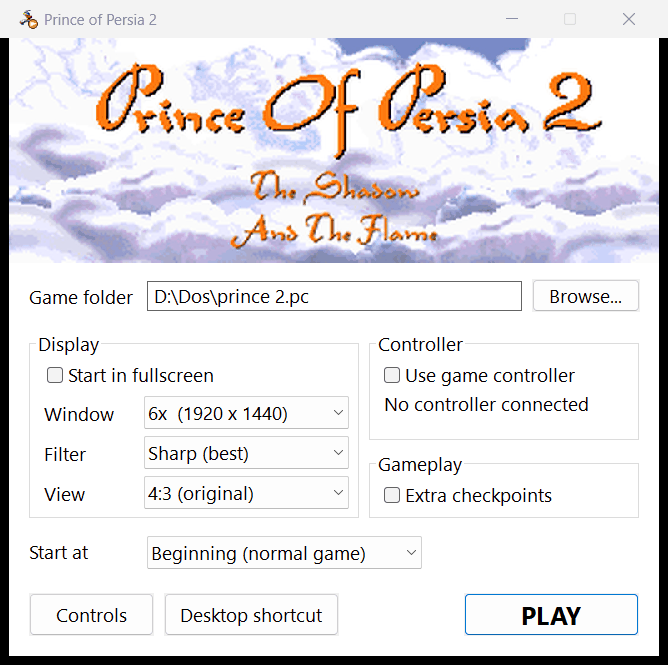
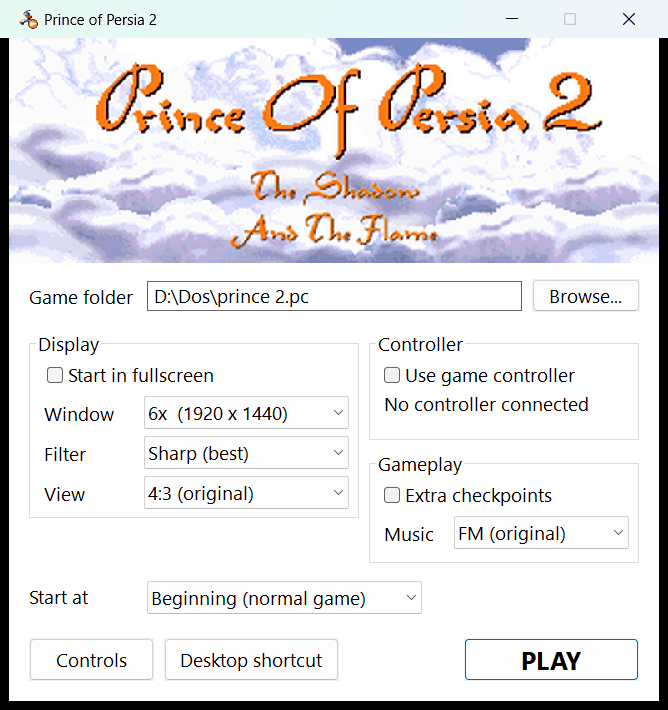
Always use the game's FM music driver, and calm the antivirus heuristics
The music path only ran the recompiled Sound Blaster Pro driver when MIDI.DRV
was byte-identical to msb_pro.drv, so a copy of the game set up for General
MIDI, Roland or the PC speaker fell back to the Windows synth and sounded
nothing like the original.  msb_pro.drv ships with the game and the game only
calls the driver through its fixed entry points, so run that image whatever
SETUP chose, and add a Music setting (launcher, or Music=gm in pop2.ini) for
people who do want General MIDI.  The FM mixer also queues ~120 ms now and
runs above normal priority, so a busy machine cannot break the music up.

Defender's machine learning flags the executable on some machines.  Nothing is
wrong with it, but drop GetAsyncKeyState for the Alt state carried by the key
message itself, write a PE checksum, and fill in the version resource, since
those are the parts that make a large unsigned binary look suspicious.

diff --git a/src/runtime.c b/src/runtime.c
@@ -102,6 +102,8 @@ enum { DRV_NONE, DRV_DIGI, DRV_MIDI };
 static uint32_t drv_base[3], drv_size[3];   /* linear address of the driver file's byte 0, file size */
 static int cur_drv_kind;                     /* kind of the most recently opened .DRV */
 static void fm_driver_check(const char *name);
+static int cfg_music_gm;   /* pop2.ini Music=gm: Windows General MIDI instead of FM */
+
 static void note_driver_read(const char *name, uint32_t dst, uint32_t fpos) {
     size_t l = strlen(name);
     if (l < 4 || _stricmp(name + l - 4, ".DRV") != 0) return;
@@ -118,7 +120,7 @@ static void note_driver_read(const char *name, uint32_t dst, uint32_t fpos) {
 static int fm_mode;
 void fm_start(void); void fm_port_write(uint16_t port, uint8_t v); uint8_t fm_port_read(void);   /* sound.c */
 static void fm_driver_check(const char *name) {
-    if (getenv("POP2_NOFM")) return;          /* debug: run the MIDI driver natively instead */
+    if (getenv("POP2_NOFM") || cfg_music_gm) return;   /* General MIDI instead (pop2.ini Music=gm) */
     const SpaceTab *t = NULL;
     for (int i = 0; i < nspaces; i++) if (spaces[i].t->ovl_id == 100) { t = spaces[i].t; break; }
     if (!t || fm_mode) return;
@@ -129,12 +131,21 @@ static void fm_driver_check(const char *name) {
     size_t na = f ? fread(a, 1, sizeof a, f) : 0, nr = g ? fread(r, 1, sizeof r, g) : 0;
     if (f) fclose(f);
     if (g) fclose(g);
-    /* same code as the recompiled driver? (bytes 0..63 are just the card name) */
-    if (na != (size_t)t->size || nr != na || memcmp(a + 64, r + 64, na - 64) != 0) { logmsg("MIDI driver is not the FM driver: General MIDI output\n"); return; }
-    memcpy(MEM + FM_SEG * 16, a, na);
+    /* The recompiled driver IS the game's msb_pro.drv, so that file is the only image allowed to
+     * run here - never whatever MIDI.DRV happens to be.  If the player set the game up for some
+     * other music device, run the FM driver anyway: it ships with the game, the game only calls
+     * it through its fixed entry points, and FM is how this soundtrack is meant to sound. */
+    if (nr != (size_t)t->size) {
+        logmsg("msb_pro.drv missing or not the recompiled version: General MIDI output\n");
+        return;
+    }
+    /* bytes 0..63 are just the card name */
+    if (na != nr || memcmp(a + 64, r + 64, nr - 64) != 0)
+        logmsg("MIDI.DRV is not the FM driver - using the game's own msb_pro.drv (pop2.ini Music=gm for General MIDI)\n");
+    memcpy(MEM + FM_SEG * 16, r, nr);
     int si = 0;
     for (int i = 0; i < nspaces; i++) if (spaces[i].t == t) si = i;
-    for (uint32_t p = 0; p < na; p += 16) para_ovl[FM_SEG + p / 16] = (uint8_t)(si + 1);
+    for (uint32_t p = 0; p < nr; p += 16) para_ovl[FM_SEG + p / 16] = (uint8_t)(si + 1);
     fm_mode = 1;
     fm_start();
     logmsg("FM driver: running recompiled driver code with OPL2 emulation\n");
@@ -359,9 +370,9 @@ static LRESULT CALLBACK wndproc(HWND h, UINT m, WPARAM w, LPARAM l) {
         BYTE ks[256]; WORD ch = 0; GetKeyboardState(ks);
         ks[VK_MENU] = ks[VK_LMENU] = ks[VK_RMENU] = 0;        /* Alt never changes the character */
         int asc = key_ascii((UINT)w, (l >> 16) & 0xFF, ks);
-        /* Alt+key has no ASCII code, as from a PC BIOS.  Ask the keyboard itself: the per-window
-         * key state can still say "Alt down" when Alt was released over another window (Alt+Tab). */
-        if ((GetAsyncKeyState(VK_MENU) & 0x8000) && (m == WM_SYSKEYDOWN)) asc = 0;
+        /* Alt+key has no ASCII code, as from a PC BIOS.  The message itself carries the Alt state
+         * (lParam bit 29), which stays right even when Alt was released over another window. */
+        if (m == WM_SYSKEYDOWN && ((l >> 29) & 1)) asc = 0;
         key_event(vk_to_scan(w, l), 0, asc); return 0; }
     case WM_KEYUP: case WM_SYSKEYUP: key_event(vk_to_scan(w, l), 1, 0); return 0;
     case WM_PAINT: { PAINTSTRUCT ps; BeginPaint(h, &ps); EndPaint(h, &ps); present(); return 0; }
@@ -381,6 +392,8 @@ static void load_settings(void) {
     if (cfg_scale > 8) cfg_scale = 8;
     cfg_controller = GetPrivateProfileIntA("pop2", "Controller", 1, ini);
     cfg_checkpoints = GetPrivateProfileIntA("pop2", "Checkpoints", 0, ini);
+    { char m[16]; GetPrivateProfileStringA("pop2", "Music", "fm", m, sizeof m, ini);
+      cfg_music_gm = _stricmp(m, "gm") == 0 || _stricmp(m, "midi") == 0; }
     cfg_filter = GetPrivateProfileIntA("pop2", "Filter", 0, ini) & 3;
     cfg_aspect = GetPrivateProfileIntA("pop2", "Aspect", 0, ini);
     if (cfg_aspect < 0 || cfg_aspect > 2) cfg_aspect = 0;

diff --git a/src/launcher.c b/src/launcher.c
@@ -10,9 +10,9 @@
 #include <stdio.h>
 #include <string.h>
 
-enum { ID_DIR = 101, ID_BROWSE, ID_FULL, ID_SCALE, ID_PAD, ID_PADSTAT, ID_LEVEL, ID_PLAY, ID_CONTROLS, ID_SHORTCUT, ID_TIMER, ID_FILTER, ID_ASPECT, ID_CP };
+enum { ID_DIR = 101, ID_BROWSE, ID_FULL, ID_SCALE, ID_PAD, ID_PADSTAT, ID_LEVEL, ID_PLAY, ID_CONTROLS, ID_SHORTCUT, ID_TIMER, ID_FILTER, ID_ASPECT, ID_CP, ID_MUSIC };
 
-static HWND hwnd, h_dir, h_full, h_scale, h_pad, h_padstat, h_level, h_play, h_filter, h_aspect, h_cp;
+static HWND hwnd, h_dir, h_full, h_scale, h_pad, h_padstat, h_level, h_play, h_filter, h_aspect, h_cp, h_music;
 static HFONT font, font_big;
 static HBITMAP banner;
 static char ini[MAX_PATH], exe_dir[MAX_PATH];
@@ -80,6 +80,7 @@ static void save_settings(void) {
     snprintf(v, sizeof v, "%d", (int)SendMessageA(h_aspect, CB_GETCURSEL, 0, 0));
     WritePrivateProfileStringA("pop2", "Aspect", v, ini);
     WritePrivateProfileStringA("pop2", "Checkpoints", SendMessageA(h_cp, BM_GETCHECK, 0, 0) == BST_CHECKED ? "1" : "0", ini);
+    WritePrivateProfileStringA("pop2", "Music", SendMessageA(h_music, CB_GETCURSEL, 0, 0) == 1 ? "gm" : "fm", ini);
 }
 
 static void play(void) {
@@ -176,9 +177,11 @@ static void build(void) {
     ctl("BUTTON", "Controller", BS_GROUPBOX, 288, y, 216, 88, 0);
     h_pad = ctl("BUTTON", "Use game controller", BS_AUTOCHECKBOX | WS_TABSTOP, 300, y + 24, 196, 22, ID_PAD);
     h_padstat = ctl("STATIC", "", 0, 300, y + 48, 200, 36, ID_PADSTAT);
-    ctl("BUTTON", "Gameplay", BS_GROUPBOX, 288, y + 96, 216, 54, 0);
+    ctl("BUTTON", "Gameplay", BS_GROUPBOX, 288, y + 96, 216, 90, 0);
     h_cp = ctl("BUTTON", "Extra checkpoints", BS_AUTOCHECKBOX | WS_TABSTOP, 300, y + 120, 196, 22, ID_CP);
-    y += 164;
+    ctl("STATIC", "Music", 0, 300, y + 152, 56, 20, 0);
+    h_music = ctl("COMBOBOX", "", CBS_DROPDOWNLIST | WS_VSCROLL | WS_TABSTOP, 356, y + 148, 140, 200, ID_MUSIC);
+    y += 200;
     ctl("STATIC", "Start at", 0, 16, y + 3, 90, 20, 0);
     h_level = ctl("COMBOBOX", "", CBS_DROPDOWNLIST | WS_VSCROLL | WS_TABSTOP, 110, y, 220, 300, ID_LEVEL);
     y += 46;
@@ -188,6 +191,8 @@ static void build(void) {
     SendMessageA(h_play, WM_SETFONT, (WPARAM)font_big, TRUE);
 
     for (int s = 1; s <= 6; s++) { char t[32]; snprintf(t, sizeof t, "%dx  (%d x %d)", s, 320 * s, 240 * s); SendMessageA(h_scale, CB_ADDSTRING, 0, (LPARAM)t); }
+    SendMessageA(h_music, CB_ADDSTRING, 0, (LPARAM)"FM (original)");
+    SendMessageA(h_music, CB_ADDSTRING, 0, (LPARAM)"General MIDI");
     SendMessageA(h_level, CB_ADDSTRING, 0, (LPARAM)"Beginning (normal game)");
     for (int l = 1; l <= 14; l++) { char t[48]; snprintf(t, sizeof t, "Level %d  (cheat mode)", l); SendMessageA(h_level, CB_ADDSTRING, 0, (LPARAM)t); }
 
@@ -210,6 +215,8 @@ static void build(void) {
     int as = GetPrivateProfileIntA("pop2", "Aspect", 0, ini); if (as < 0 || as > 2) as = 0;
     SendMessageA(h_filter, CB_SETCURSEL, fi, 0); SendMessageA(h_aspect, CB_SETCURSEL, as, 0);
     SendMessageA(h_cp, BM_SETCHECK, GetPrivateProfileIntA("pop2", "Checkpoints", 0, ini) ? BST_CHECKED : BST_UNCHECKED, 0);
+    { char m[16]; GetPrivateProfileStringA("pop2", "Music", "fm", m, sizeof m, ini);
+      SendMessageA(h_music, CB_SETCURSEL, _stricmp(m, "fm") == 0 ? 0 : 1, 0); }
     update_pad_status();
     SetTimer(hwnd, ID_TIMER, 1000, NULL);
     SetFocus(h_play);
@@ -268,7 +275,7 @@ int WINAPI WinMain(HINSTANCE hi, HINSTANCE hp, LPSTR cmd, int show) {
     wc.hIconSm = (HICON)LoadImageA(hi, MAKEINTRESOURCEA(1), IMAGE_ICON, GetSystemMetrics(SM_CXSMICON), GetSystemMetrics(SM_CYSMICON), 0);
     RegisterClassExA(&wc);
     DWORD style = WS_OVERLAPPED | WS_CAPTION | WS_SYSMENU | WS_MINIMIZEBOX;
-    RECT r = { 0, 0, S(520), S(BANNER_H + 14 + 40 + 164 + 46 + 34 + 16) };
+    RECT r = { 0, 0, S(520), S(BANNER_H + 14 + 40 + 200 + 46 + 34 + 16) };
     AdjustWindowRect(&r, style, FALSE);
     int ww = r.right - r.left, wh = r.bottom - r.top;
     hwnd = CreateWindowExA(0, "PoP2Launcher", "Prince of Persia 2", style,

diff --git a/src/sound.c b/src/sound.c
@@ -91,8 +91,8 @@ static void midi_reset_all(void);
  * (recompiled) code at FM_SEG and its port 388h/389h writes land here. */
 void opl_reset(void); void opl_write(int r, int v); int opl_status(void); void opl_render(int16_t *buf, int n, int rate);
 #define FM_RATE 44100
-#define FM_BUFS 6
-#define FM_LEN  512
+#define FM_BUFS 10        /* ~120 ms queued ahead: headroom on slower or busy machines */
+#define FM_LEN  512       /* short blocks, so register writes still land within ~12 ms */
 static CRITICAL_SECTION fm_lock; static int fm_on, fm_index;
 static HWAVEOUT fm_wo; static WAVEHDR fm_hdr[FM_BUFS]; static int16_t fm_buf[FM_BUFS][FM_LEN]; static HANDLE fm_event;
 
@@ -130,7 +130,10 @@ void fm_start(void) {
         waveOutWrite(fm_wo, &fm_hdr[i], sizeof fm_hdr[i]);
     }
     fm_on = 1;
-    CreateThread(NULL, 0, fm_thread, NULL, 0, NULL);
+    {   /* the mixer must not lose against the game thread, or the music breaks up */
+        HANDLE th = CreateThread(NULL, 0, fm_thread, NULL, 0, NULL);
+        if (th) { SetThreadPriority(th, THREAD_PRIORITY_ABOVE_NORMAL); CloseHandle(th); }
+    }
     logmsg("FM synthesis started\n");
 }
 void fm_port_write(uint16_t port, uint8_t v) {

diff --git a/README.md b/README.md
@@ -55,10 +55,20 @@ Cheat mode (the game's own): `pop2.exe MAKINIT` - `pop2.exe MAKINIT LEVEL5` star
 
 ## Sound
 
-- Music: when `MIDI.DRV` is the AdLib / Sound Blaster FM driver (as installed here), the
-  driver's own code runs recompiled and drives an OPL2 (YM3812) emulator (`src/opl.c`).
-  Other MIDI drivers fall back to the Windows General MIDI synth.
+- Music: the game's own Sound Blaster Pro FM driver (`msb_pro.drv`) runs recompiled and drives an
+  OPL2 (YM3812) emulator (`src/opl.c`), so the soundtrack is the real FM one whatever the game's
+  SETUP was configured for.  `Music=gm` in pop2.ini (or the launcher's *Music* box) sends the
+  music to the Windows General MIDI synth instead, which sounds quite different.
 - Effects: `DIGI.DRV` sample playback is replaced by waveOut.
+
+## Antivirus false positives
+
+`pop2.exe` is a large unsigned executable full of machine-translated code, which is exactly the
+shape Microsoft Defender's machine-learning heuristics guess at: some machines report
+`Trojan:Win32/Wacatac` or a similar `!ml` verdict on a freshly downloaded copy, while a scan with
+current signatures finds nothing.  It is a false positive.  Build it yourself from source if you
+would rather not take that on trust, check the SHA-256 published with each release, and report the
+file to https://www.microsoft.com/en-us/wdsi/filesubmission so the verdict gets corrected.
 
 ## Building
 
